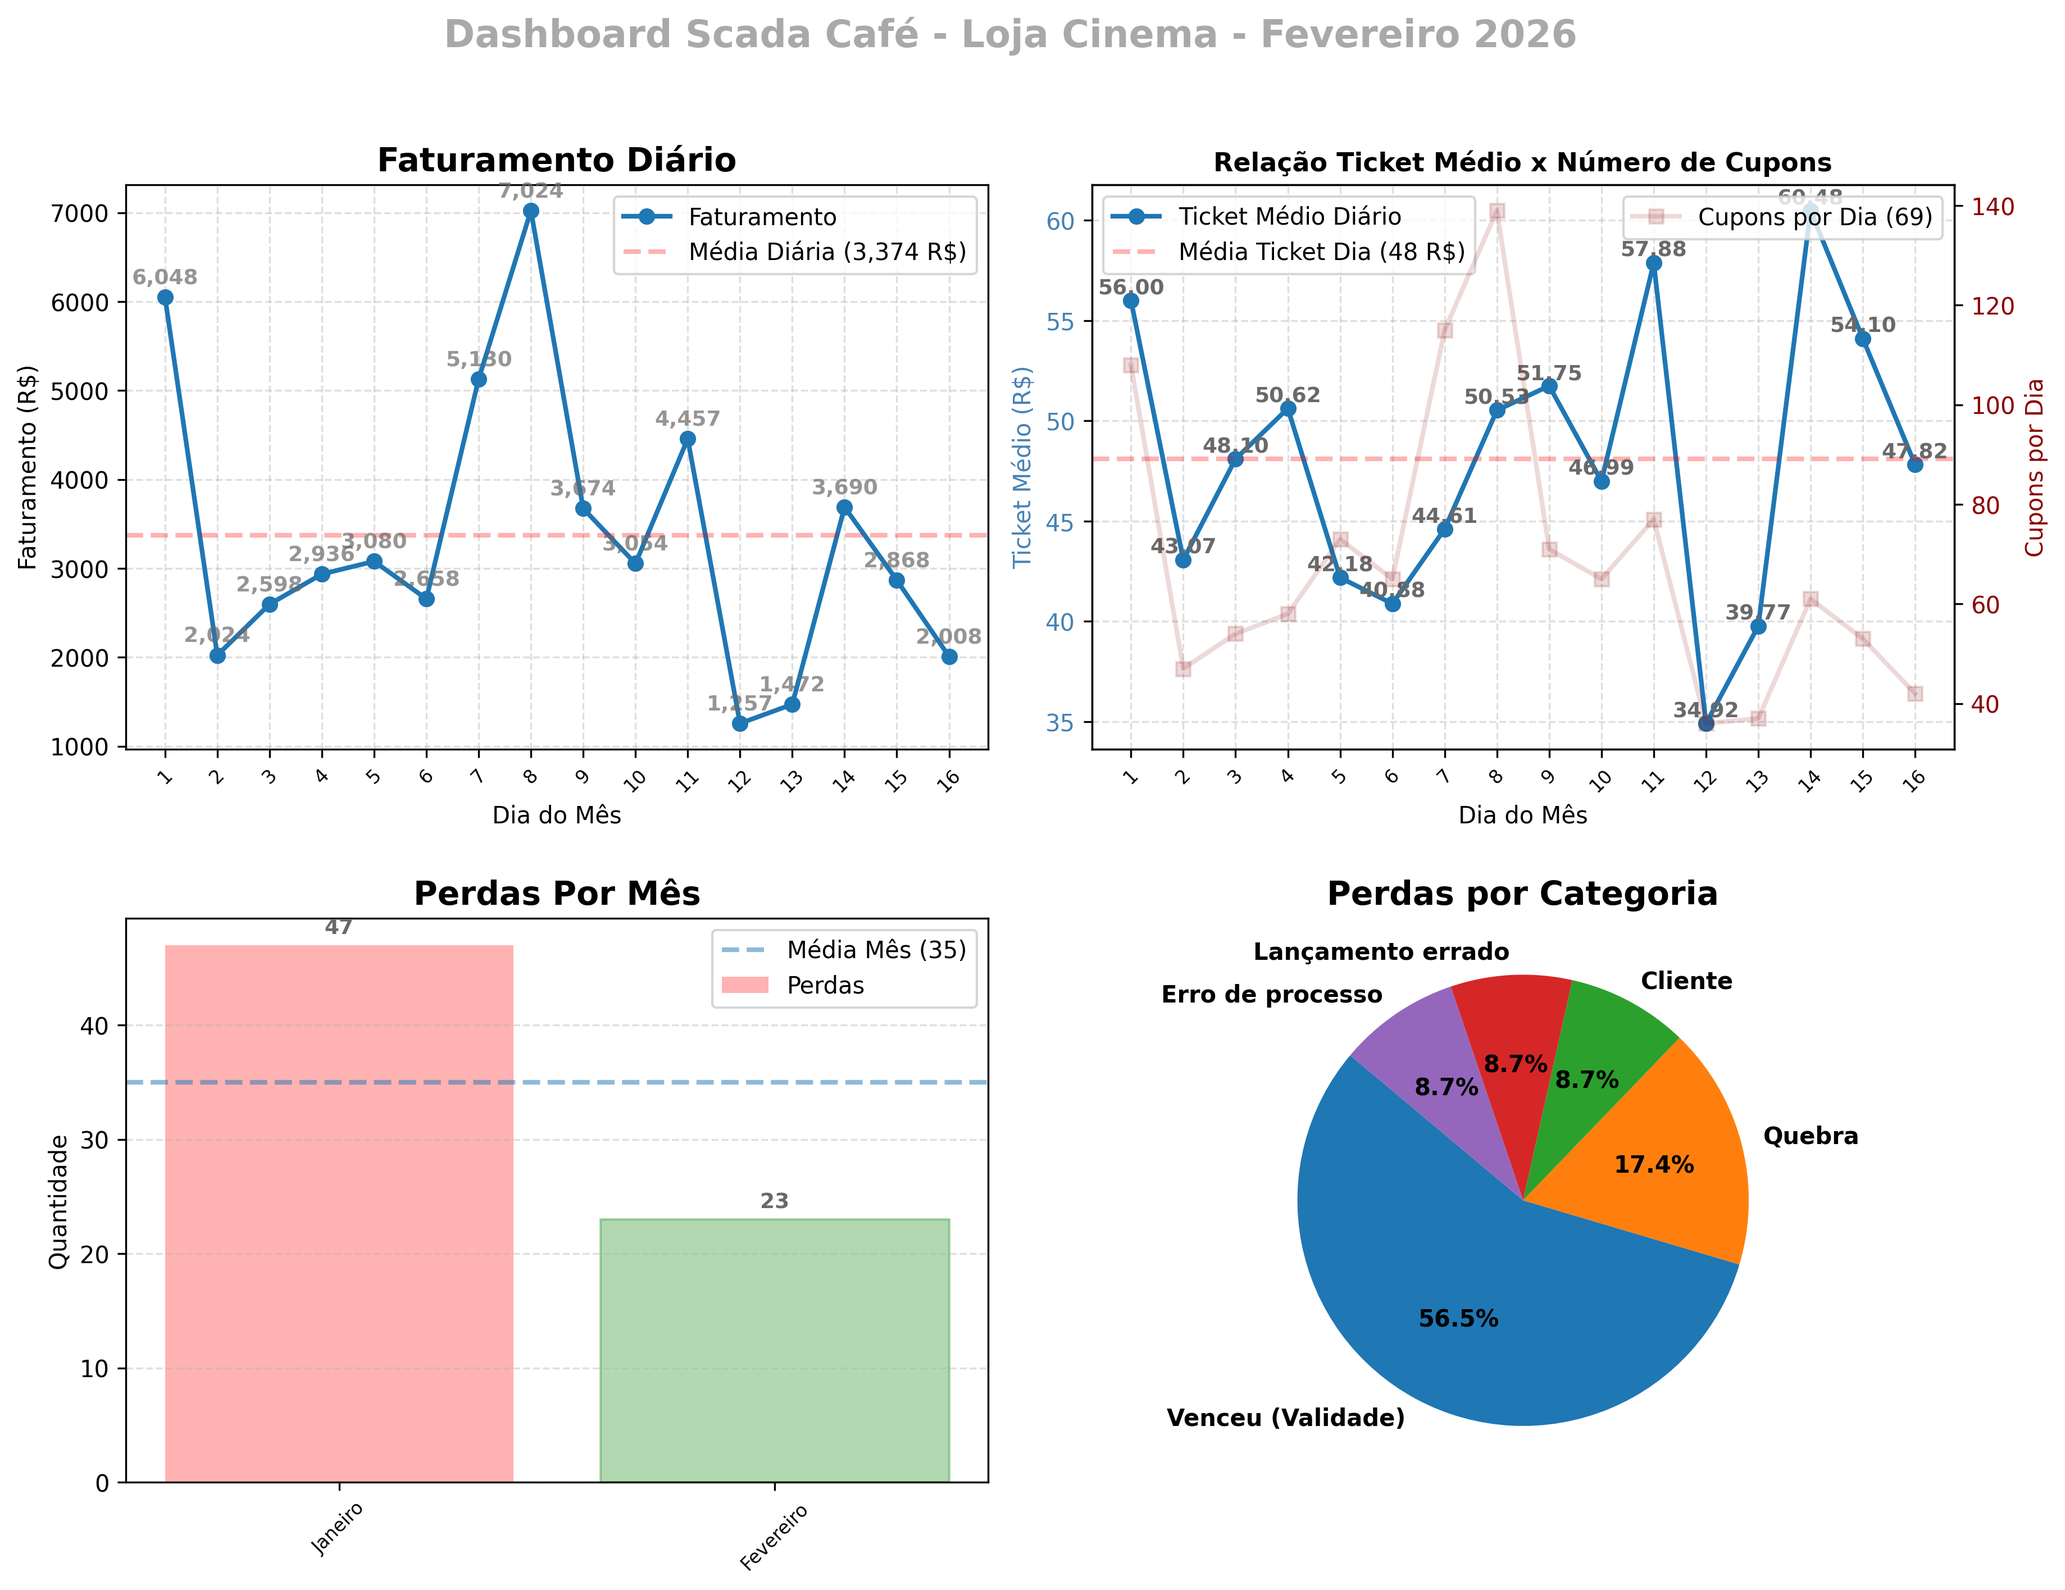
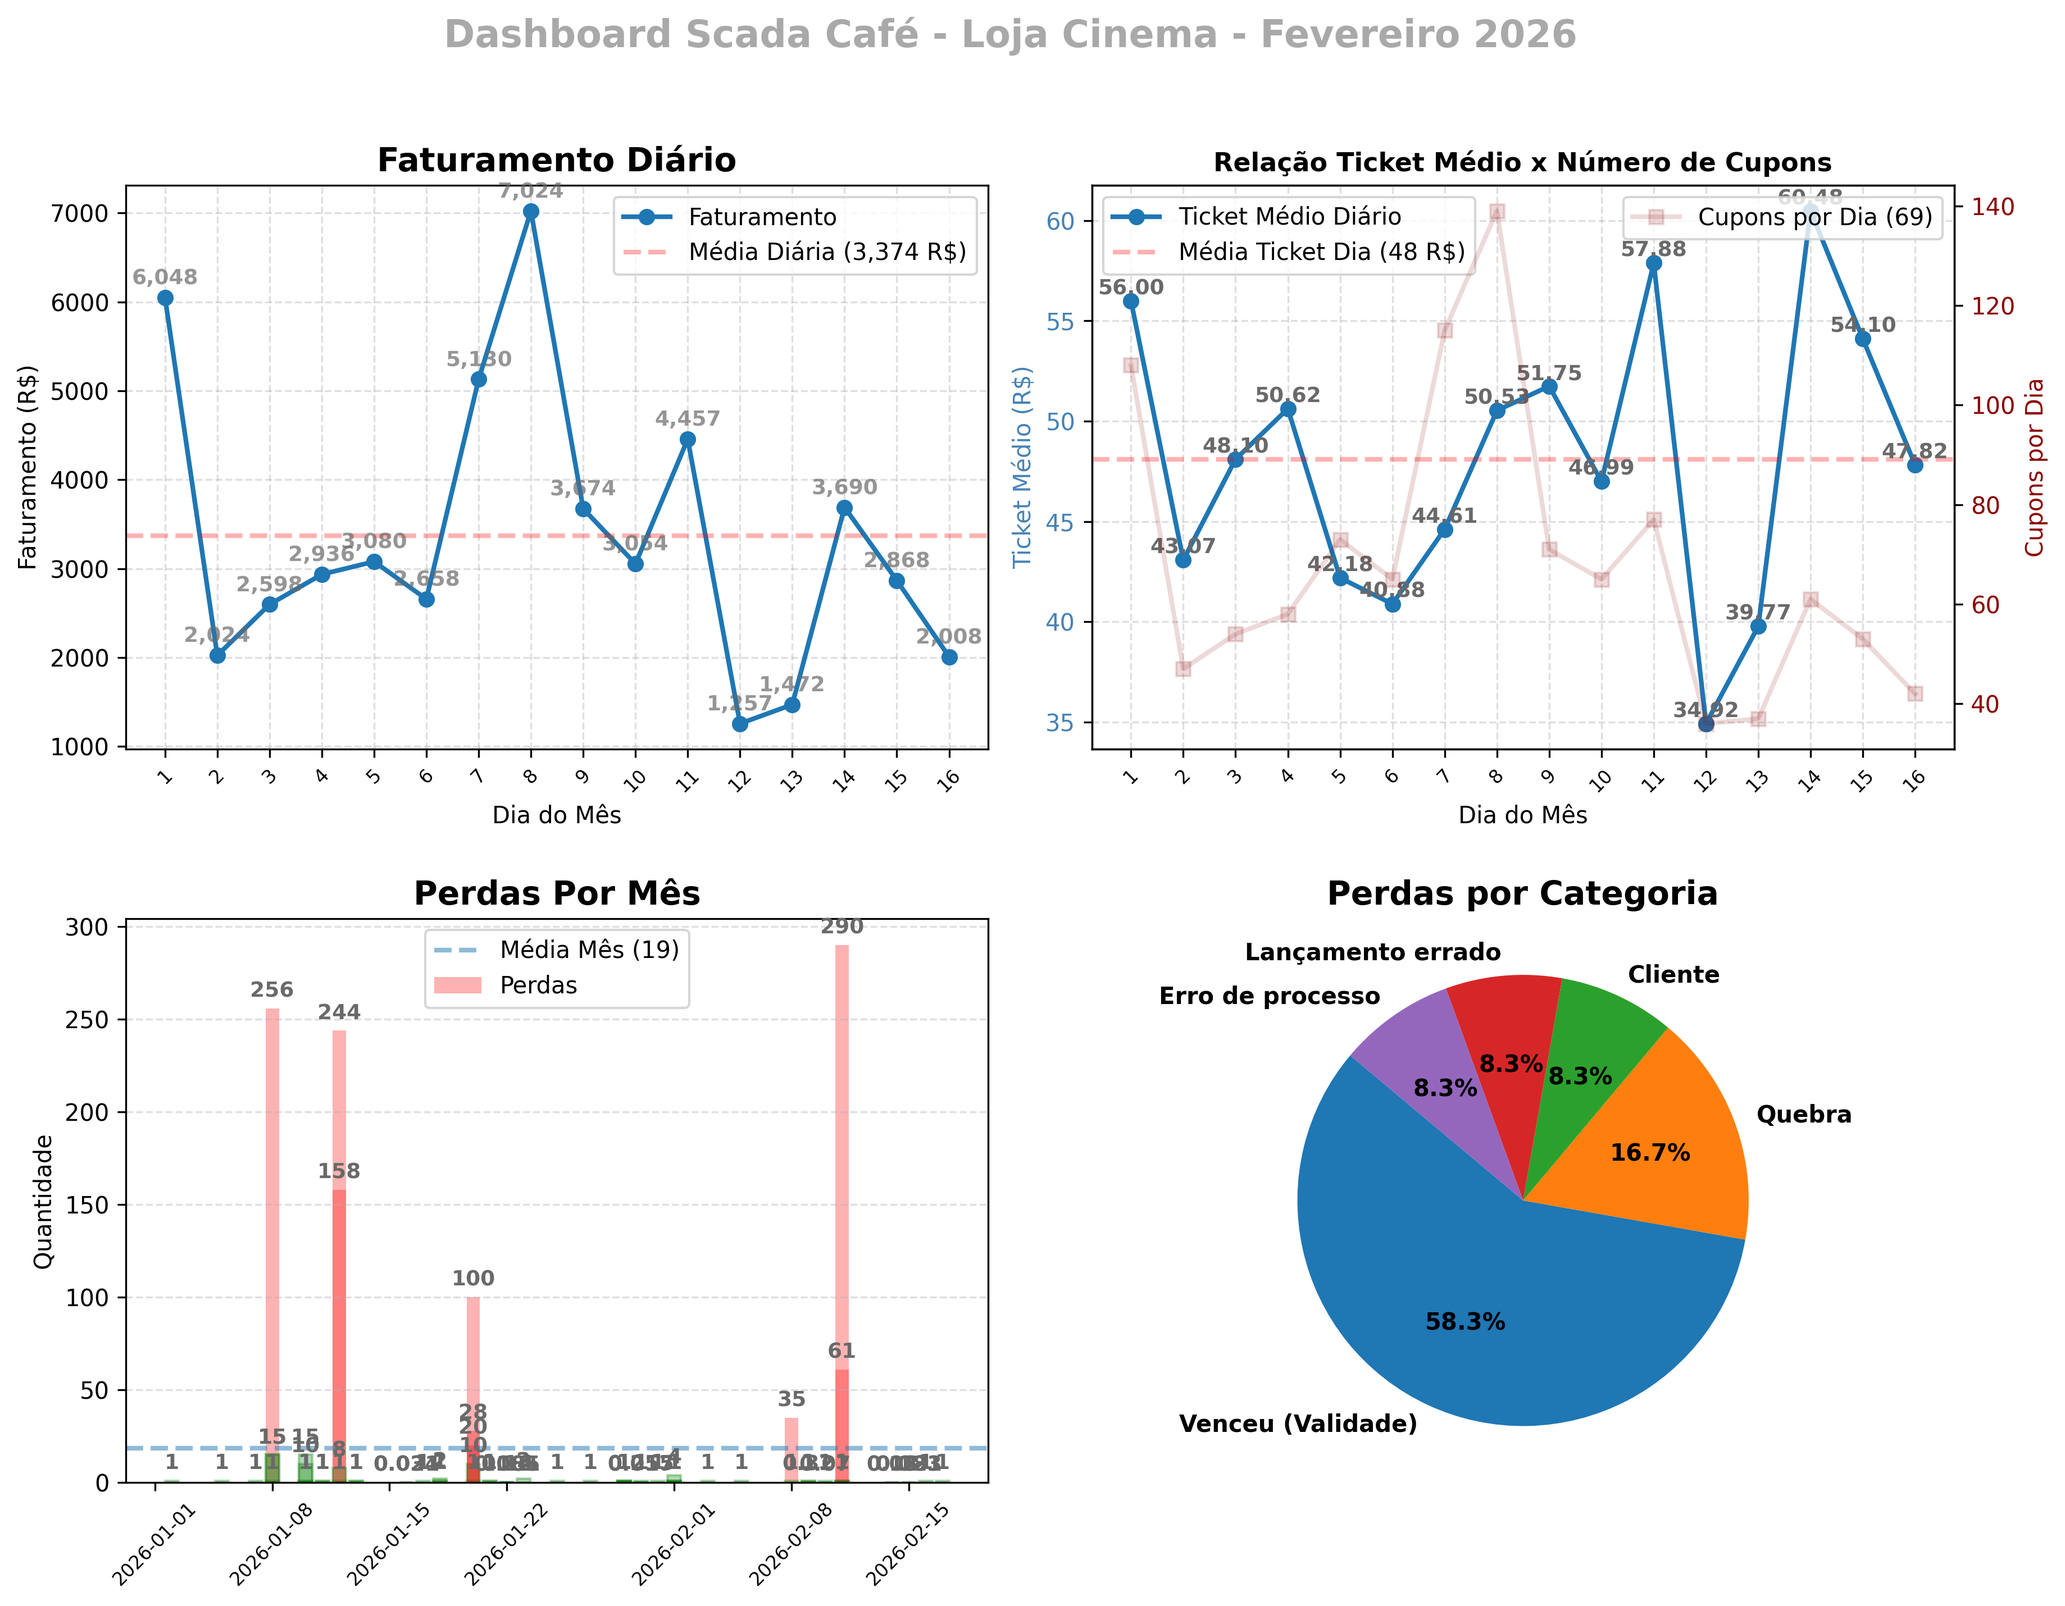
feature: Estrutura
Geração de tabela perdas no banco de dados e estrutura de codigo correspondente.

diff --git a/scada_analise.py b/scada_analise.py
@@ -49,6 +49,10 @@ conexao = sqlite3.connect("faturamento_scada.db")
 base_comissao_df = pd.read_sql("SELECT * FROM comissao", conexao)
 conexao.close()
 
+conexao = sqlite3.connect("faturamento_scada.db")
+base_perdas_df = pd.read_sql("SELECT * FROM perdas", conexao)
+conexao.close()
+
 #------------------------------------------------------------------------------------------------------------
 # TRATAMENTO DE DADOS:
 # Alterar formato de colunas:
@@ -152,6 +156,37 @@ comissao_media_dia = base_comissao_df['rateio'].mean()
 # Projeção de Comissão para o mês:
 comissao_proj = comissao_acum + (comissao_media_dia * dias_restantes)
 
+# Variaveis da base de perdas:
+base_perdas_df["data"] = pd.to_datetime(
+    base_perdas_df["data"],
+    #format="%Y/%m/%d"
+)
+
+# Formatando a coluna 'qtd' para que seja possível gerar calculos:
+base_perdas_df['qtd'] = (
+    base_perdas_df['qtd']
+    .str.replace(',', '.', regex=False)
+    .str.extract(r'(\d+\.?\d*)')[0]
+    .astype(float)
+)
+
+# Filtrando a base de perdas:
+perdas_motivo_mes = base_perdas_df
+perdas_motivo_mes = perdas_motivo_mes[perdas_motivo_mes["data"].dt.month == MES_EXIBICAO]
+perdas_motivo_filtrado = perdas_motivo_mes.groupby("motivo")[["item"]].count().reset_index()
+
+# Por ano:
+perdas_motivo_ano = base_perdas_df
+perdas_motivo_ano = perdas_motivo_ano[perdas_motivo_ano["data"].dt.year == ANO_EXIBICAO]
+perdas_motivo_filtrado2 = perdas_motivo_ano.groupby("motivo")[["item"]].count().reset_index()
+
+#perdas_motivo = perdas_motivo[perdas_motivo["Data da perda"].dt.month == MES_EXIBICAO]
+# Ordenar por quantidade de perdas:
+perdas_motivo_filtrado = perdas_motivo_filtrado.sort_values("item", ascending=False).reset_index(drop=True)
+perdas_motivo_filtrado2 = perdas_motivo_filtrado2.sort_values("item", ascending=False).reset_index(drop=True)
+# Somatório total do número de ocorrências de perdas:
+total_perdas_mes = perdas_motivo_filtrado["item"].sum()
+
 
 #------------------------------------------------------------------------------------------------------------
 # MENU DE OPÇÕES:
@@ -252,11 +287,310 @@ while True:
         print("\n" + "-" * 50)
         aguardar_comando()
 
+    elif escolha == "9":
+        print("\n" + "-" * 50)
+        print("- PERDAS POR MÊS:")
+        print(' EM CONSTRUÇÃO')
+        print("\n" + "-" * 50)
+        aguardar_comando()
+
+    elif escolha == "10":
+        print("\n" + "-" * 50)
+        print("- PERDAS MÊS CORRENTE:")
+        print(' EM CONSTRUÇÃO')
+        print("\n" + "-" * 50)
+        print("- PERDAS POR MOTIVO:")
+        print(' EM CONSTRUÇÃO')
+        print( "Total: ")
+        print("\n" + "-" * 50)
+        aguardar_comando()
+
+    elif escolha == "11":
+        # Definir ciclo de cores personalizado usando a paleta 'tab10'
+        cores = plt.get_cmap('tab10').colors
+        ciclo_cores = cycler('color', cores)
+        plt.rc('axes', prop_cycle=ciclo_cores)
+
+        # === Ordem dos meses ===
+        ordem_meses = ["Janeiro", "Fevereiro", "Março", "Abril", "Maio", "Junho",
+                    "Julho", "Agosto", "Setembro", "Outubro", "Novembro", "Dezembro"]
+
+        # Ordem meses em inglês:
+        ordem_meses_ingles = ["January", "February", "March", "April", "May", "June",
+                            "July", "August", "September", "October", "November", "December"]
+        
+        # DASHBOARD: Mês Corrente:
+        #--------------------------
+        # Criação de Mosaico:
+        mosaico = "AB;CD" # Definição do mosaico onde serão alocados os gráficos
+        fig = plt.figure(figsize=(14, 10)) # Criação da figura dos gráficos
+        espacamento = {'wspace': 0.12, 'hspace': 0.3} # Variável para definição de espaçamentos
+        axs = fig.subplot_mosaic(mosaico, gridspec_kw=espacamento) # Criação do sistema de eixos
+
+        # GRAFICO A:
+        # - - - - - - - - - - - - - - - - - - - - - - - - - - - - - -
+        # FATURAMENTO POR DIA:
+        # Agrupar por dia e somar o Faturamento
+        # Nota: Como já filtramos por mês, o 'Dia' aqui será o dia do mês (1, 2, 3...)
+        dados_diarios_mes = base_filtro_mes.groupby(base_filtro_mes['data'].dt.day)['faturamento'].sum().reset_index()
+
+        # NOVIDADE CRUCIAL: FILTRAR APENAS DIAS COM FATURAMENTO MAIOR QUE ZERO
+        dados_diarios_mes = dados_diarios_mes[
+            dados_diarios_mes['faturamento'] > 0
+        ].reset_index(drop=True) # O reset_index é opcional, mas boa prática após um filtro
+
+        # --- NOVIDADE: 1.4 Calcular a Média ---
+        media_diaria = dados_diarios_mes['faturamento'].mean()
+
+        # .plot() é o comando para gráficos de linha
+        axs["A"].plot(
+            dados_diarios_mes['data'],
+            dados_diarios_mes['faturamento'],
+            marker='o',          # Adiciona um marcador para cada dia
+            linestyle='-',       # Linha contínua
+            linewidth=2,
+            label="Faturamento"
+        )
+
+        # --- NOVIDADE: Linha de Média ---
+        axs["A"].axhline(
+            y=media_diaria,
+            color='red',
+            linestyle='--', # Linha tracejada
+            alpha=0.3,
+            linewidth=2,
+            label=f"Média Diária ({media_diaria:,.0f} R$)" # Adicionar label da média na legenda com o valor formatado
+        )
+
+        # --- NOVIDADE: Valores sobre os Pontos (Rótulos de Dados) ---
+        for dia, faturamento in zip(dados_diarios_mes['data'], dados_diarios_mes['faturamento']):
+            axs["A"].text(
+                dia, 
+                faturamento + 100,  # Adiciona um pequeno offset (+100) para ficar acima do ponto
+                f"{faturamento:,.0f}", # Formata o valor sem casas decimais e com separador de milhar
+                ha='center',        # Alinhamento horizontal: centralizado no ponto
+                va='bottom',        # Alinhamento vertical: acima do ponto
+                fontsize=9,
+                alpha=0.7,
+                color='dimgrey',
+                weight='bold'
+            )
+
+        # --- 3. Personalização e Visualização ---
+        axs["A"].set_title(f'Faturamento Diário', fontsize=14, weight='bold')
+        axs["A"].set_xlabel('Dia do Mês', fontsize=10)
+        axs["A"].set_ylabel('Faturamento (R$)', fontsize=10)
+        axs["A"].tick_params(axis="x", rotation=45, labelsize=8)
+
+
+        # Garantir que todos os dias do mês apareçam no eixo X
+        dias = range(1, len(dados_diarios_mes) + 1)
+        axs["A"].set_xticks(dias)
+
+        axs["A"].legend()
+        axs["A"].grid(True, linestyle='--', alpha=0.4)
+
+        # GRAFICO B:
+        #------------
+        # RELAÇÃO TICKET MÉDIO X NÚMERO DE CUPONS:
+        # VARIÁVEIS TICKET:
+        ticket_medio_mes_corrente = base_filtro_mes.groupby(base_filtro_mes['data'].dt.day)['ticket_medio'].mean().reset_index()
+        # Filtrar faturamento maior que '0':
+        ticket_medio_mes_corrente = ticket_medio_mes_corrente[
+            ticket_medio_mes_corrente['ticket_medio'] > 0
+        ].reset_index(drop=True) # O reset_index é opcional, mas boa prática após um filtro
+        # Linha de Média
+        media_ticket_mes_corrente = ticket_medio_mes_corrente['ticket_medio'].mean()
+
+        # VARIÁVEIS CUPONS: - - - - - - - - - - - - - - - - - - - - - - - - 
+        dados_cupons_mes_corrente = base_filtro_mes.groupby(base_filtro_mes['data'].dt.day)['cupom'].sum().reset_index()
+        # Filtrar cupos maior que '0':
+        dados_cupons_mes_corrente = dados_cupons_mes_corrente[dados_cupons_mes_corrente['cupom'] > 0].reset_index(drop=True)
+        # O reset_index é opcional, mas boa prática após um filtro
+        # Calcular a Média de Cupons
+        media_cupons_mes_corrente = dados_cupons_mes_corrente['cupom'].mean()
+
+        #-----------------------
+
+        # CONSTRUÇÃO DO GRÁFICO COM DOIS EIXOS Y:
+        axs["B"].grid(True, linestyle='--', alpha=0.4)
+
+        # Primeiro eixo Y - Ticket Médio:
+        axs["B"].plot(ticket_medio_mes_corrente['data'], ticket_medio_mes_corrente['ticket_medio'],
+                marker='o', linestyle='-', linewidth=2, label='Ticket Médio Diário')
+        axs["B"].set_ylabel('Ticket Médio (R$)', color='steelblue')
+        axs["B"].set_xlabel('Dia do Mês', fontsize=10)
+        axs["B"].tick_params(axis='y', labelcolor="steelblue")
+        axs["B"].set_title(f'Relação Ticket Médio x Número de Cupons', fontsize=11, weight='bold')
+
+        # Linha de Média Ticket Médio:
+        media_ticket_mes_corrente = ticket_medio_mes_corrente['ticket_medio'].mean()
+        axs["B"].axhline(
+            y=media_ticket_mes_corrente,
+            color='red',
+            linestyle='--', # Linha tracejada
+            alpha=0.3,
+            linewidth=2,
+            label=f"Média Ticket Dia ({media_ticket_mes_corrente:,.0f} R$)" # Adicionar label da média na legenda com o valor formatado
+        )
+        # Valores sobre os Pontos Ticket Médio (Rótulos de Dados):
+        for dia, ticket in zip(ticket_medio_mes_corrente['data'], ticket_medio_mes_corrente['ticket_medio']):
+            axs["B"].text(
+                dia,
+                ticket + 0.1,  # Adiciona um pequeno offset (+5) para ficar acima do ponto
+                f"{ticket:,.2f}", # Formata o valor sem casas decimais e com separador de milhar
+                ha='center',
+                va='bottom',
+                fontsize=9,
+                color='dimgrey',
+                weight='bold'
+            )
+
+        # - - - - - - - - - - - - - - - - - - - - - - - - - - -
+        ax2 = axs["B"].twinx()  # Criar um segundo eixo Y compartilhando o eixo X
+        # - - - - - - - - - - - - - - - - - - - - - - - - - - -
+
+        # Segundo eixo Y - Cupons por Dia:
+        ax2.plot(dados_cupons_mes_corrente['data'], dados_cupons_mes_corrente['cupom'],
+                marker='s', linestyle='-', color='darkred', linewidth=2, alpha=0.15, label=f'Cupons por Dia ({media_cupons_mes_corrente:.0f})')
+        ax2.set_ylabel('Cupons por Dia', color='darkred')
+        ax2.tick_params(axis='y', labelcolor='darkred')
+
+        #Ajuste de grid do gráfico de linhas para Cupons - AX2:
+        #ax2.grid(axis='y', linestyle='--', alpha=0.4)
+        ax2.grid(False)
+
+        # Garantir que todos os dias do mês apareçam no eixo X
+        dias = range(1, len(dados_diarios_mes) + 1)
+        axs["B"].set_xticks(dias)
+        axs["B"].set_xticklabels(dados_cupons_mes_corrente["data"], rotation=45, fontsize=8)
+
+        # Adicionar legendas ancorando a posição fixa (x, y) / bbox_transform para posicionar em relação a área do gráfico
+        axs["B"].legend(bbox_transform=ax2.transAxes)
+        ax2.legend()
+
+
+        # GRAFICO C:
+        #-------------
+        # PERDAS POR MÊS:
+        perdas_mes = axs["C"].bar(base_perdas_df['data'], base_perdas_df['qtd'], color='red', alpha=0.3, label='Perdas')
+        media_perdas_mes = base_perdas_df['qtd'].mean()
+
+        base_perdas_df["data"] = pd.Categorical(base_perdas_df["data"],
+                                            categories=ordem_meses,
+                                            ordered=True)
+        base_perdas_df = base_perdas_df.sort_values("data")
+
+        # --- NOVIDADE: Linha de Média ---
+        axs["C"].axhline(
+            y=media_perdas_mes,
+            #color='salmon',
+            linestyle='--', # Linha tracejada
+            alpha=0.5,
+            linewidth=2,
+            label=f"Média Mês ({media_perdas_mes:,.0f})" # Adicionar label da média na legenda com o valor formatado
+        )
+
+        # === Personalização ===
+        axs["C"].set_title('Perdas Por Mês', fontsize=14, weight='bold')
+        #axs["D"].set_xlabel("Mês")
+        axs["C"].set_ylabel("Quantidade")
+        axs["C"].tick_params(axis="x", rotation=45, labelsize=8)
+        axs["C"].grid(False)
+        axs["C"].grid(axis="y", linestyle="--", alpha=0.4)
+        axs["C"].legend()
+
+        # === Valores sobre as barras ===
+        axs["C"].bar_label(
+            perdas_mes, # Variável que recebeu a instrução do gráfico
+            label=base_perdas_df["qtd"], # Informação a ser exibida em cima de cada barra
+            padding=3, # Posição do texto em relação à barra
+            fontsize=9, # Tamanho da fonte
+            fontweight='bold', # Fonte em negrito
+            color="dimgrey" # Cor do texto
+            )
+
+        # Muda a cor da barra para valores abaixo da média:
+        for i, barra in enumerate(perdas_mes):
+            if base_perdas_df["qtd"].iloc[i] < media_perdas_mes:
+                barra.set_color('green')
+
+        # Destacar área no gráfico (exemplo: período de redução de perdas)
+        #plt.axvspan(4.5, 9.5, color='lightgreen', alpha=0.3) 
+        #plt.text(5.5, 70, 'Período de Redução de Perdas', fontsize=10, color='darkgreen')
+
+
+        # - - - - - - - - - - - - - - - - - - - - - - - - - - - - - -
+        # GRAFICO D:
+        # - - - - - - - - - - - - - - - - - - - - - - - - - - - - - -
+        # PERDAS POR MOTIVO:
+        perdas_cat = axs["D"].pie(
+            perdas_motivo_filtrado['item'],
+            labels=perdas_motivo_filtrado['motivo'],
+            autopct='%1.1f%%',
+            startangle=140,
+            textprops={'fontsize': 10, 'weight': 'bold', 'color': 'black'}
+        )
+
+        # === Personalização ===
+        axs["D"].set_title(f'Perdas por Categoria', fontsize=14, weight='bold')
+
+
+        # AJUSTES FIGURA:
+        #-----------------
+        fig.suptitle(f"Dashboard Scada Café - Loja Cinema - {mes_nome} {ANO_EXIBICAO}", fontsize=16, fontweight='bold', color='darkgrey')
+
+        # Gerar arquivo .PNG do gráfico:
+        plt.savefig("dashboard_Mes_Corrente_cinema.png", dpi=300, bbox_inches="tight")
+
+        plt.show()
+        aguardar_comando()
+
+
+
+
+
+
+
+
+
+
+
+
+
+
+
+
+
+
+
+
+
+
+
+
+
+
+
+
+
+
+
+
+
+
+
+
+
+
+
     elif escolha == "x":
         break
     else:
         print(" Opção inválida")
         time.sleep(1)
+
+
 
 
 

diff --git a/scada_cafe_cinema.py b/scada_cafe_cinema.py
@@ -640,7 +640,7 @@ while True:
 
 
         # - - - - - - - - - - - - - - - - - - - - - - - - - - - - - -
-        # # AJUSTES FIGURA:
+        # AJUSTES FIGURA:
         # - - - - - - - - - - - - - - - - - - - - - - - - - - - - - -
         fig.suptitle(f"Dashboard Scada Café - Loja Cinema - {nome_do_mes_corrente} {ANO_EXIBICAO}", fontsize=16, fontweight='bold', color='darkgrey')
 
